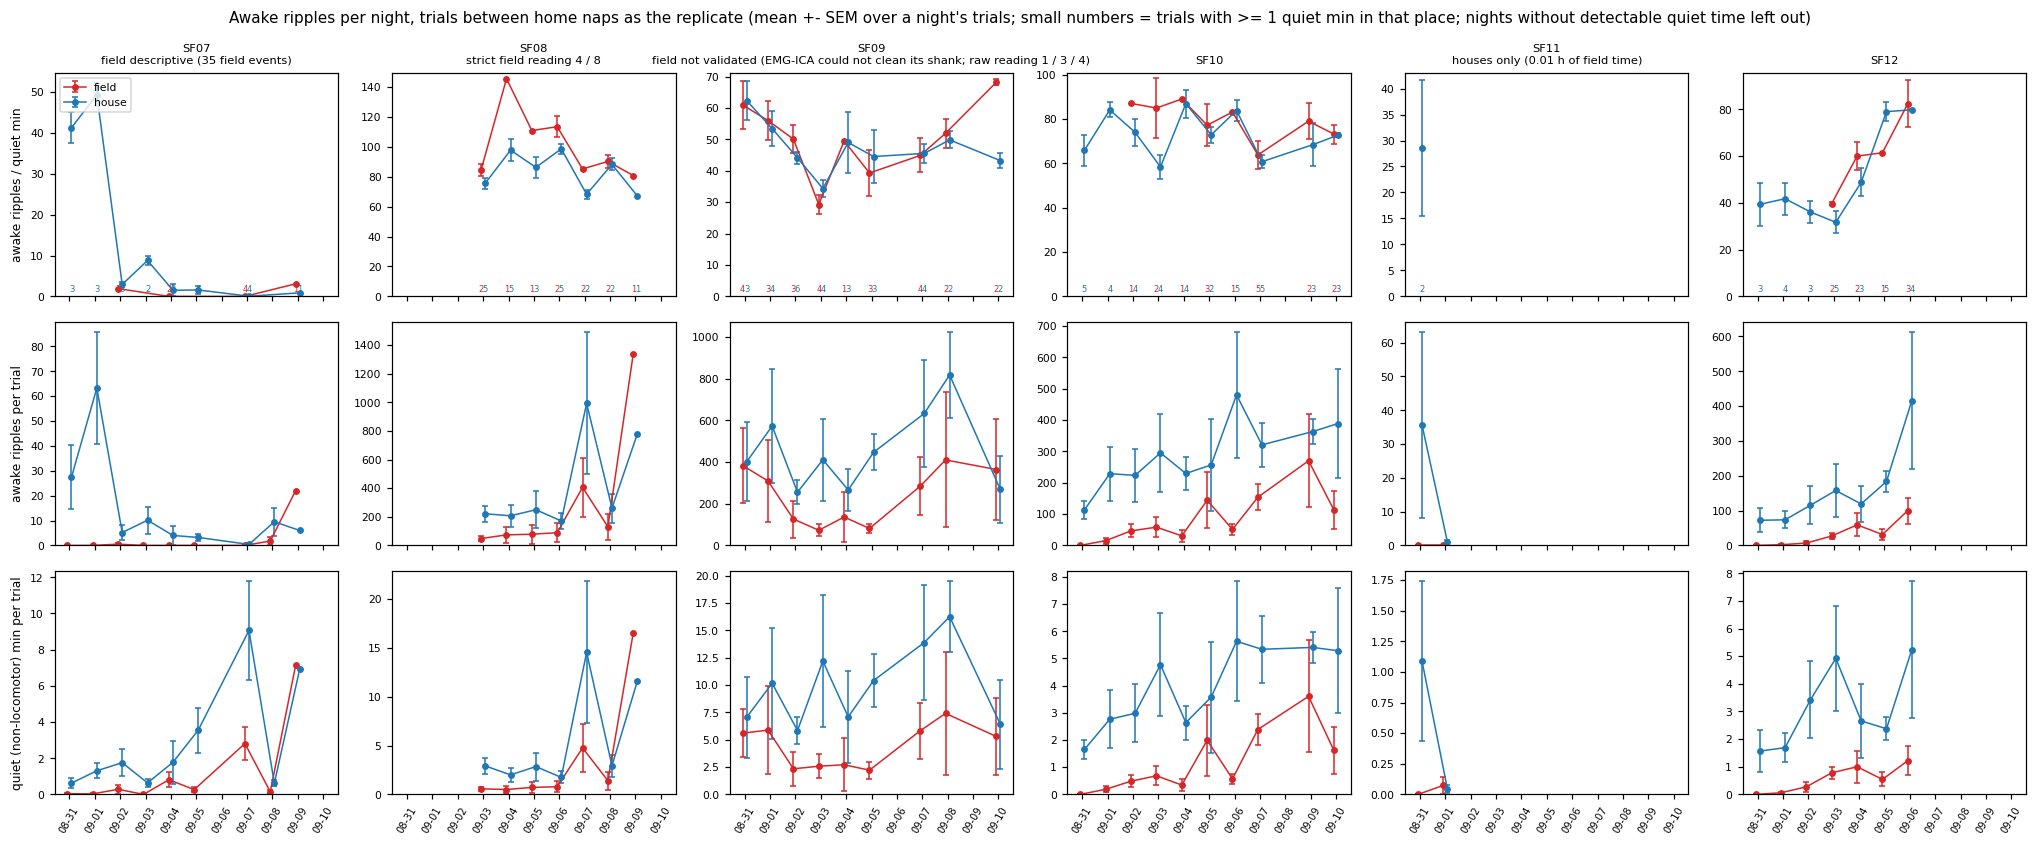
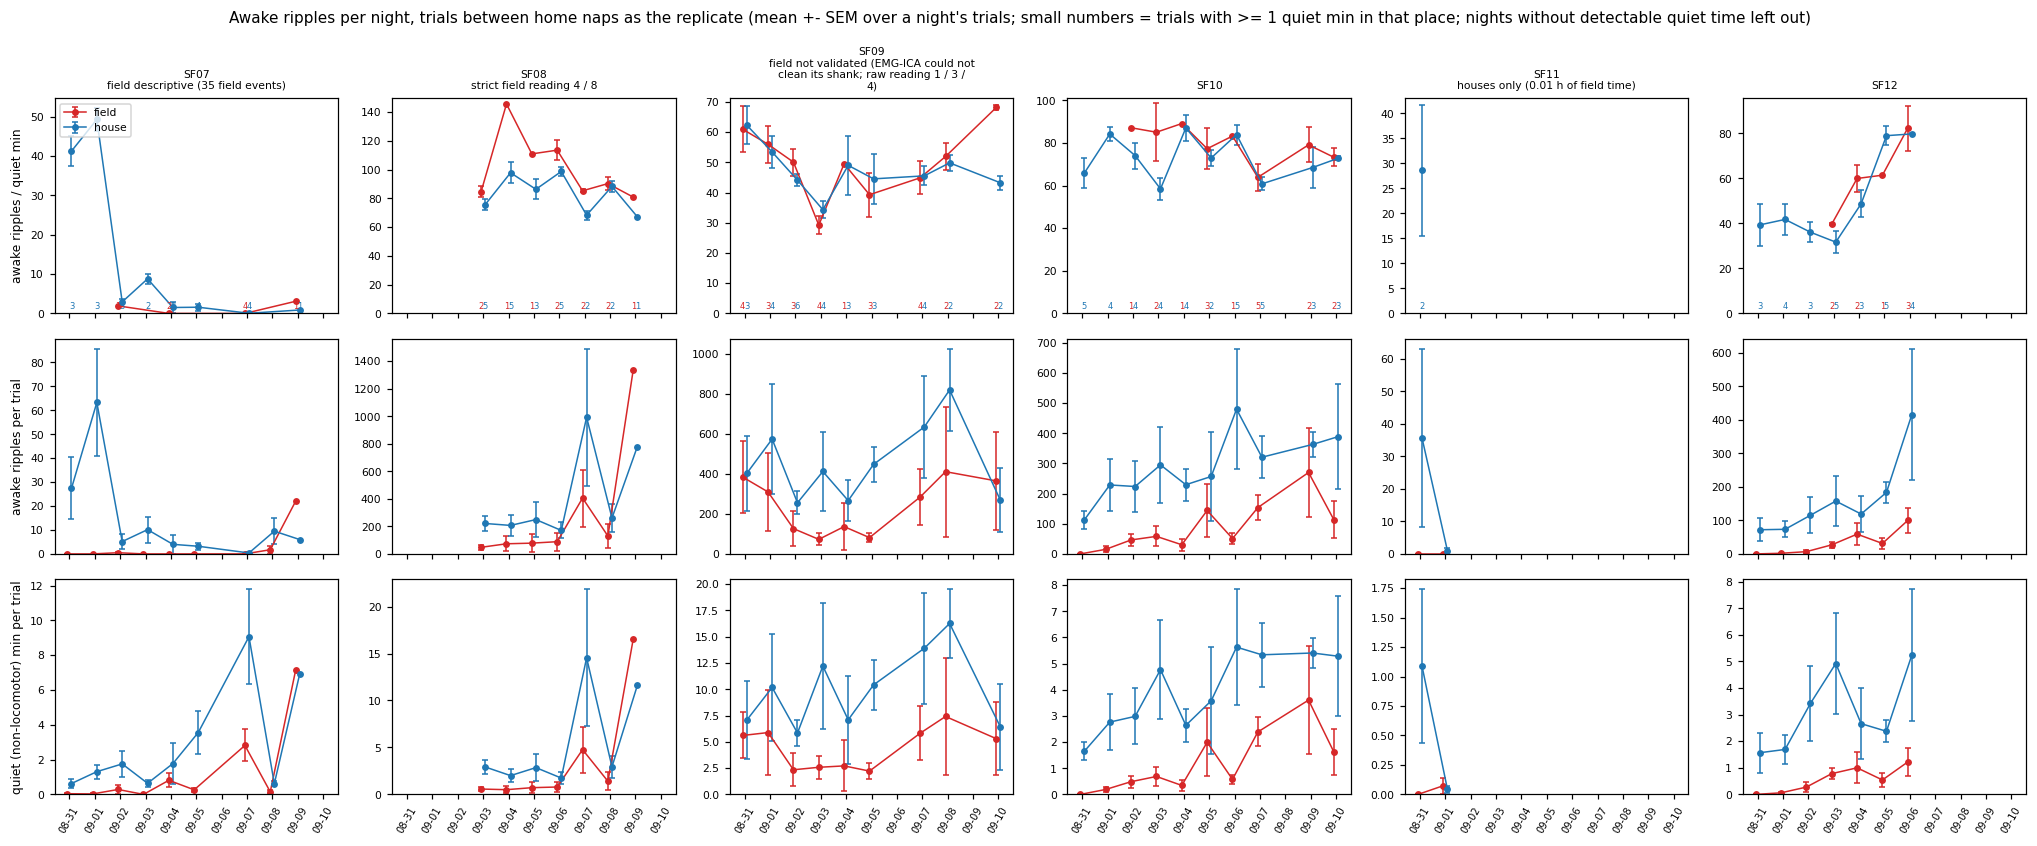
Awake-ripple per-night figure: wrap the per-animal notes

diff --git a/ephys/awake_ripple_phase2.py b/ephys/awake_ripple_phase2.py
@@ -863,7 +863,8 @@ def per_night(a) -> Path:
             if c == 0:
                 ax.set_ylabel(lab, fontsize=8)
             if r == 0:
-                ax.set_title(an + (f"\n{NOTES[an]}" if an in NOTES else ""), fontsize=7.5)
+                import textwrap
+                ax.set_title(an + (("\n" + "\n".join(textwrap.wrap(NOTES[an], 38))) if an in NOTES else ""), fontsize=7)
                 if c == 0:
                     ax.legend(fontsize=7, loc="upper left")
             ax.set_ylim(bottom=0)
